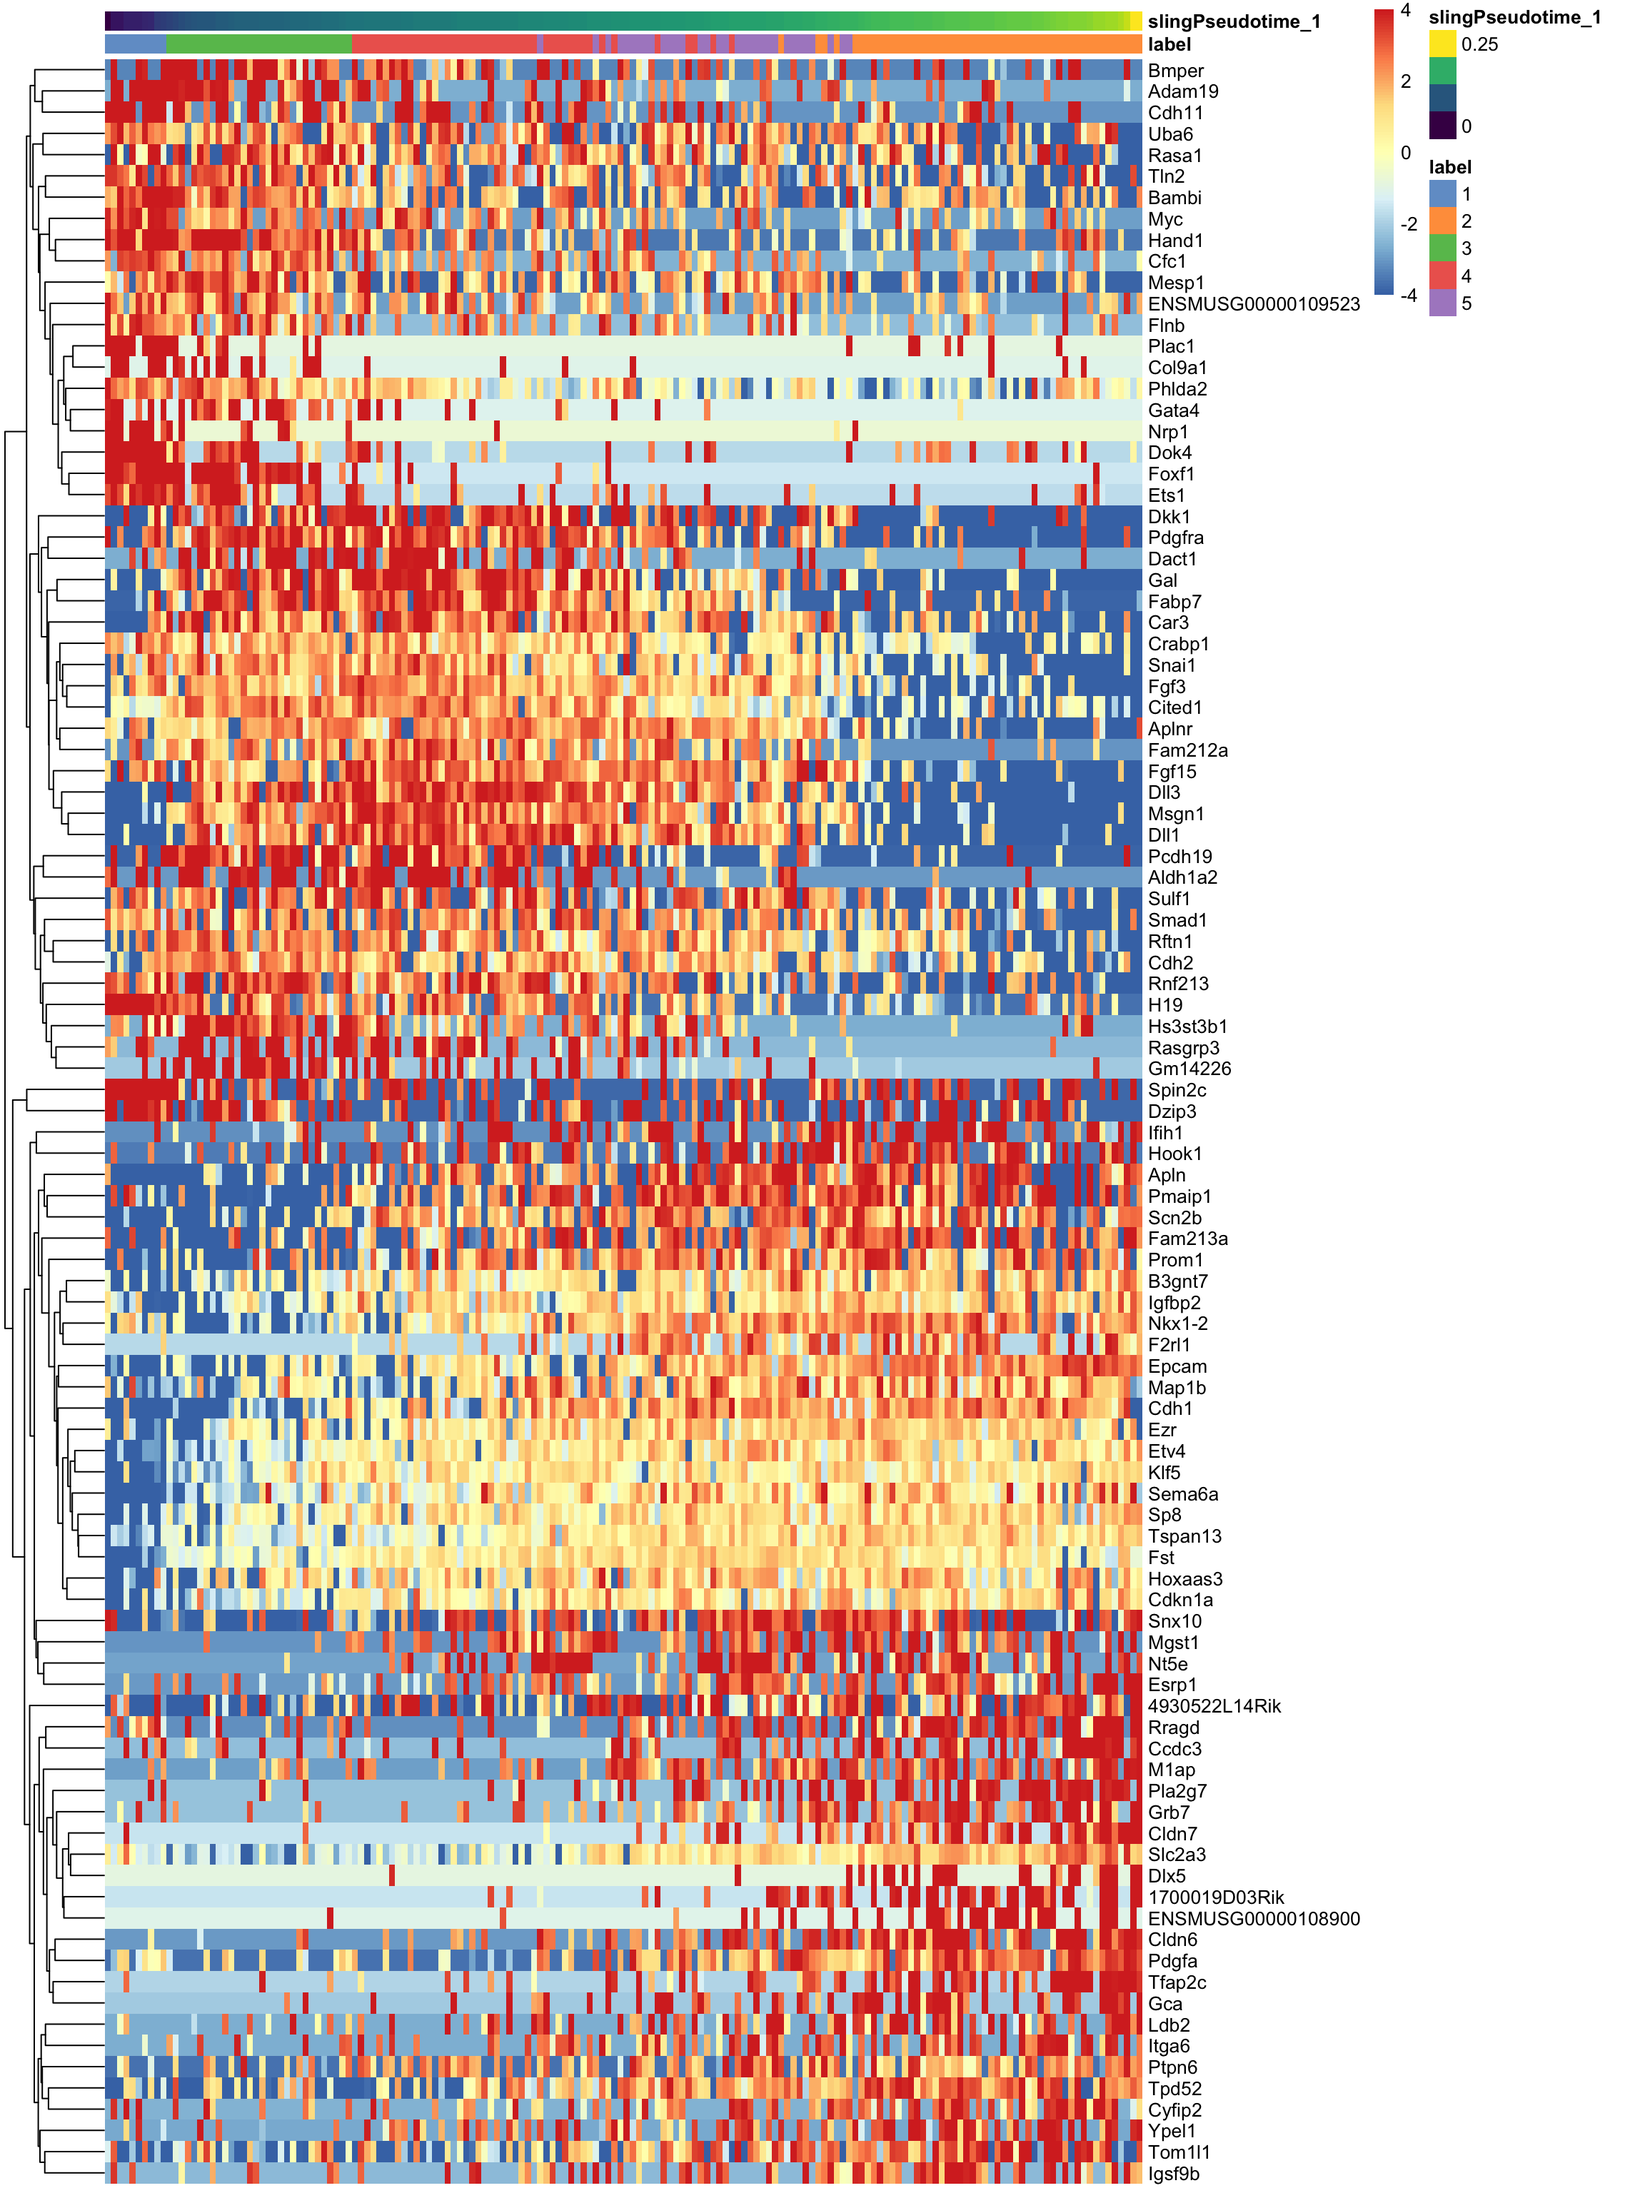
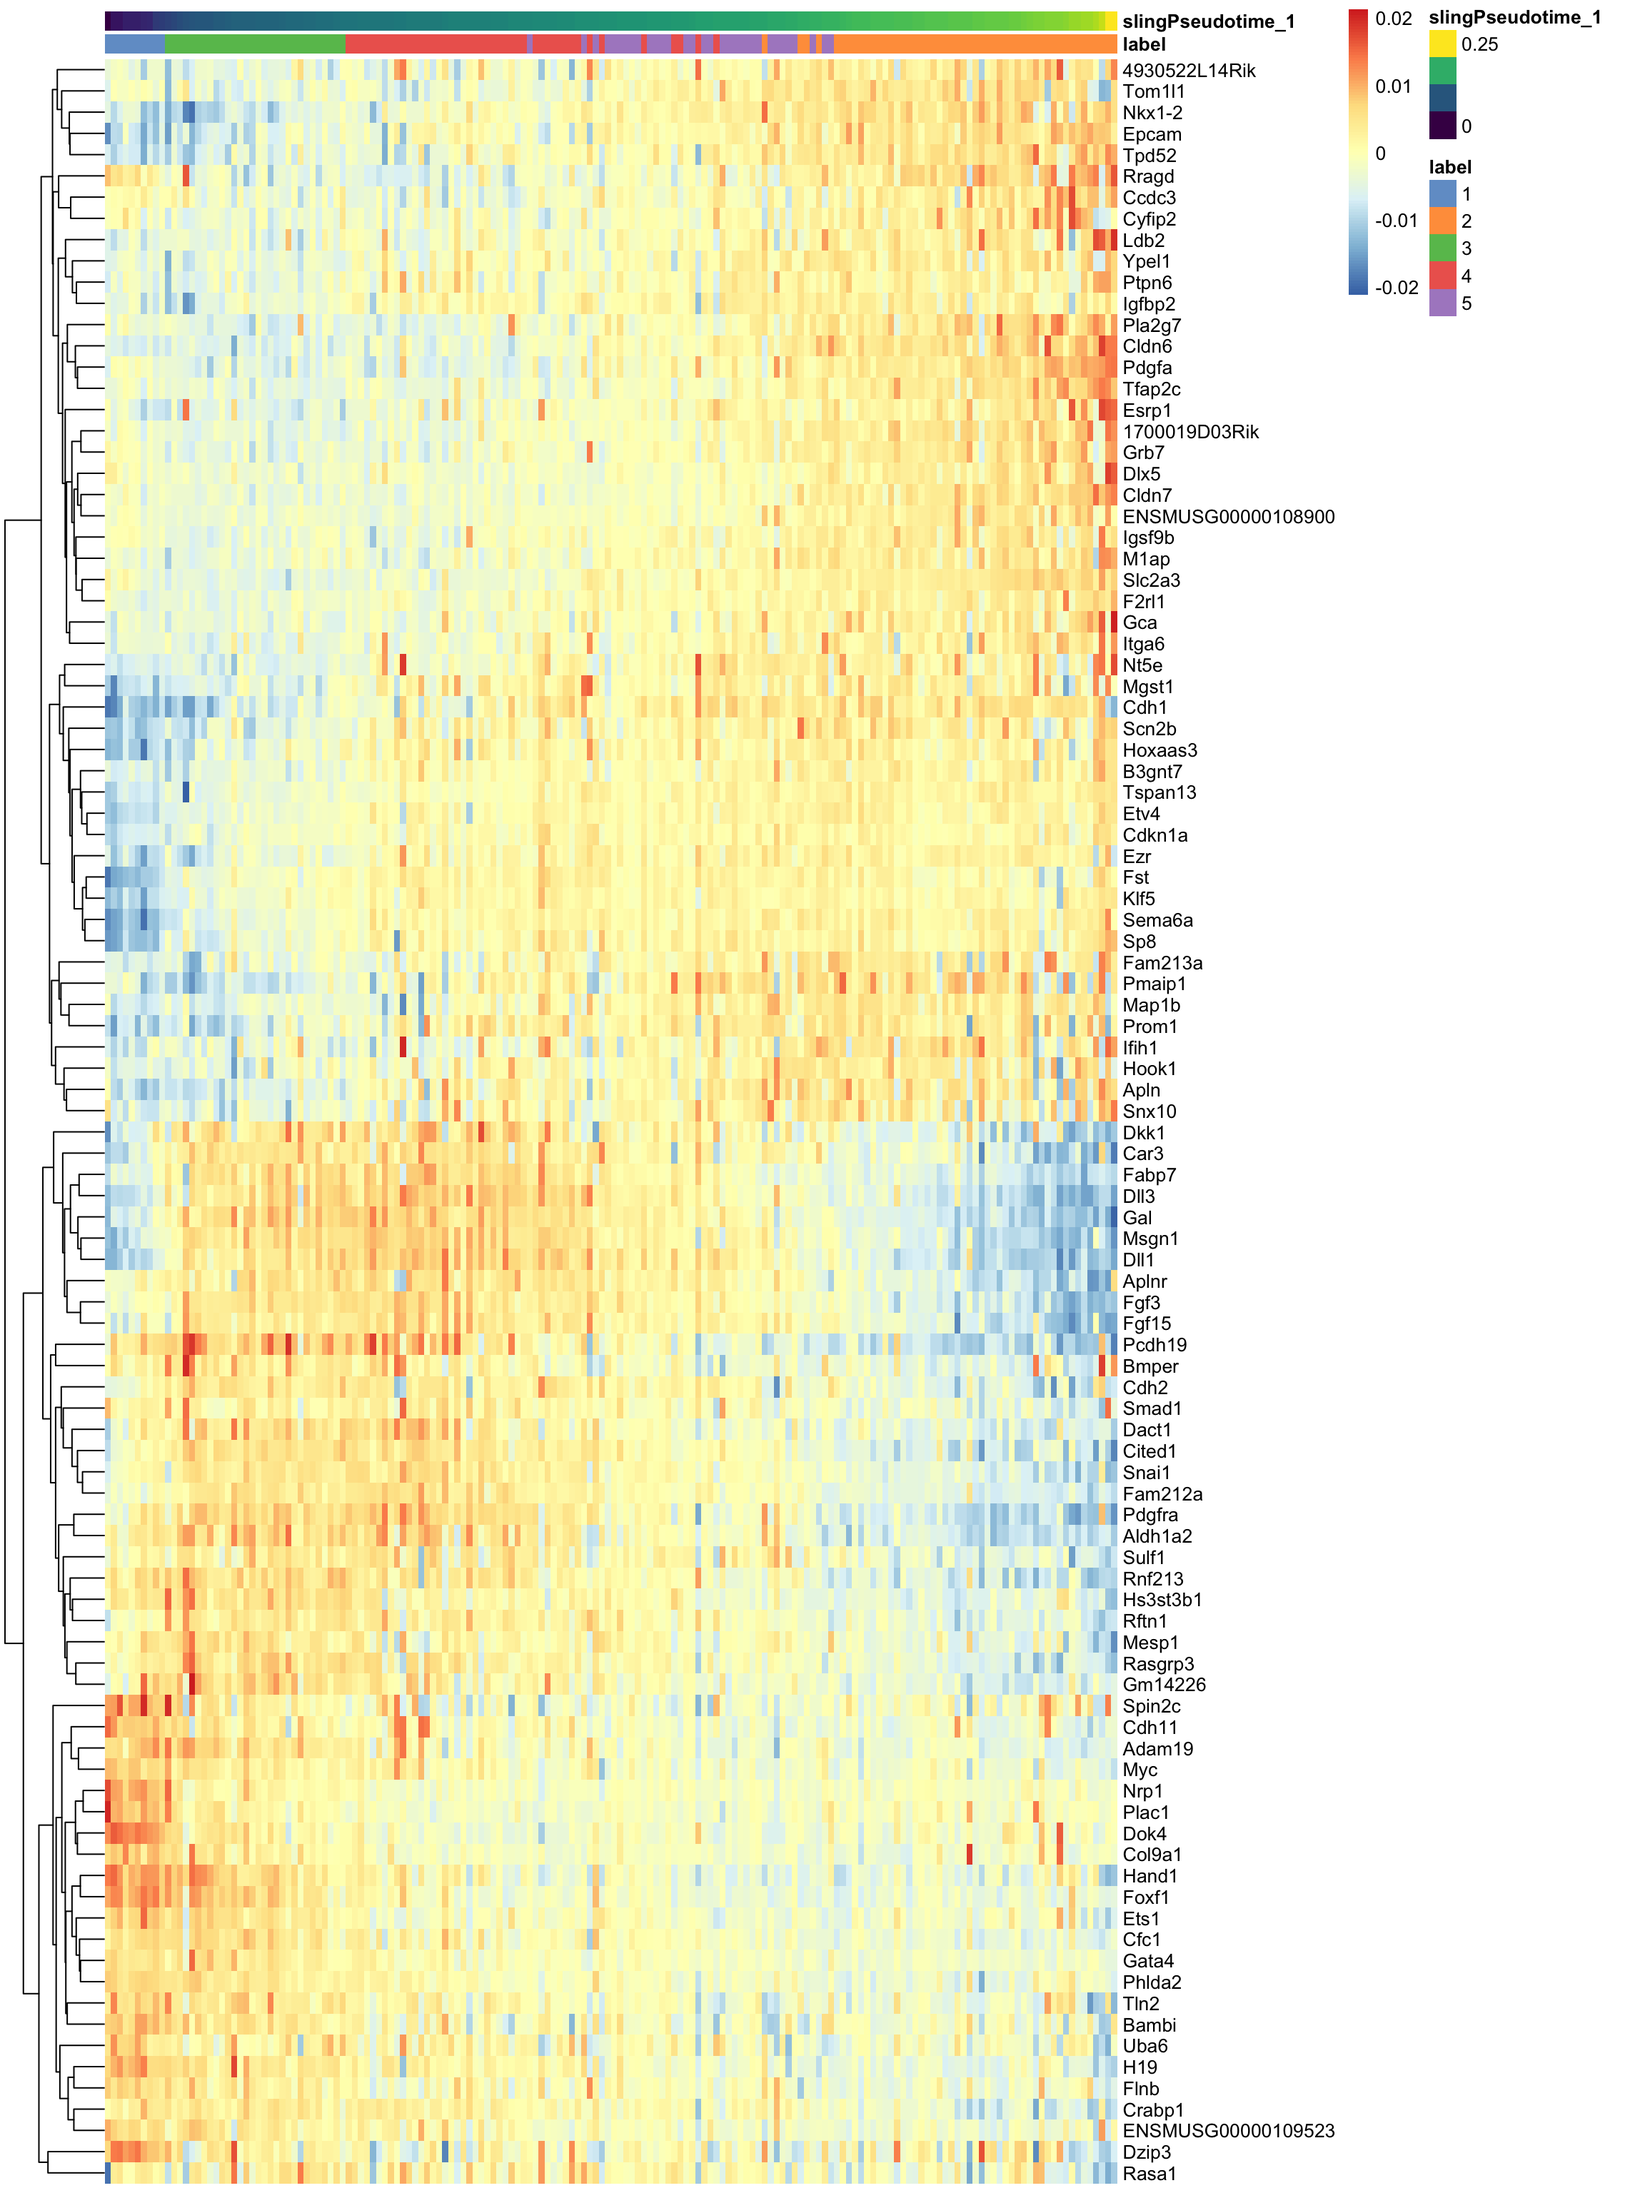
Build

diff --git a/docs/secondary-analysis.html b/docs/secondary-analysis.html
@@ -565,16 +565,16 @@ This reproducible <a href="http://rmarkdown.rstudio.com">R Markdown</a> analysis
 <div class="panel panel-default">
 <div class="panel-heading">
 <p class="panel-title">
-<a data-toggle="collapse" data-parent="#workflowr-checks" href="#strongRepositoryversionstrongahrefhttpsgithubcomjma1991LPMPtree929687f18661f34d89df8a66c787c60856451db8targetblank929687fa"> <span class="glyphicon glyphicon-ok text-success" aria-hidden="true"></span> <strong>Repository version:</strong> <a href="https://github.com/jma1991/LPMP/tree/929687f18661f34d89df8a66c787c60856451db8" target="_blank">929687f</a> </a>
+<a data-toggle="collapse" data-parent="#workflowr-checks" href="#strongRepositoryversionstrongahrefhttpsgithubcomjma1991LPMPtree129278adb8d81c2115524365246506c79b244a67targetblank129278aa"> <span class="glyphicon glyphicon-ok text-success" aria-hidden="true"></span> <strong>Repository version:</strong> <a href="https://github.com/jma1991/LPMP/tree/129278adb8d81c2115524365246506c79b244a67" target="_blank">129278a</a> </a>
 </p>
 </div>
[2 lines of base64/hex data omitted]
 <div class="panel-body">
 <p>
 Great! You are using Git for version control. Tracking code development and connecting the code version to the results is critical for reproducibility.
 </p>
 <p>
-The results in this page were generated with repository version <a href="https://github.com/jma1991/LPMP/tree/929687f18661f34d89df8a66c787c60856451db8" target="_blank">929687f</a>. See the <em>Past versions</em> tab to see a history of the changes made to the R Markdown and HTML files.
+The results in this page were generated with repository version <a href="https://github.com/jma1991/LPMP/tree/129278adb8d81c2115524365246506c79b244a67" target="_blank">129278a</a>. See the <em>Past versions</em> tab to see a history of the changes made to the R Markdown and HTML files.
 </p>
 <p>
 Note that you need to be careful to ensure that all relevant files for the analysis have been committed to Git prior to generating the results (you can use <code>wflow_publish</code> or <code>wflow_git_commit</code>). workflowr only checks the R Markdown file, but you know if there are other scripts or data files that it depends on. Below is the status of the Git repository when the results were generated:
@@ -639,6 +639,40 @@ Message
 </tr>
 </thead>
 <tbody>
+<tr>
+<td>
+Rmd
+</td>
+<td>
+<a href="https://github.com/jma1991/LPMP/blob/129278adb8d81c2115524365246506c79b244a67/analysis/secondary-analysis.Rmd" target="_blank">129278a</a>
+</td>
+<td>
+James Ashmore
+</td>
+<td>
+2021-07-30
+</td>
+<td>
+Build
+</td>
+</tr>
+<tr>
+<td>
+html
+</td>
+<td>
+<a href="https://rawcdn.githack.com/jma1991/LPMP/5da4fbcff95a0f9cde3ed1fbcd742991579920f4/docs/secondary-analysis.html" target="_blank">5da4fbc</a>
+</td>
+<td>
+James Ashmore
+</td>
+<td>
+2021-07-30
+</td>
+<td>
+Build
+</td>
+</tr>
 <tr>
 <td>
 Rmd
@@ -1100,14 +1134,49 @@ res &lt;- TSCAN::testPseudotime(sce, pseudotime = sce$slingPseudotime_1)</code><
 <pre class="r"><code>plotHeatmap(
   object = sce[, !is.na(sce$slingPseudotime_1)],
   features = rownames(sig)[ind],
-  exprs_values = &quot;logcounts&quot;,
+  exprs_values = &quot;reconstructed&quot;,
   center = TRUE,
-  zlim = c(-4, +4),
-  symmetric = TRUE,
   colour_columns_by = &quot;label&quot;,
   order_columns_by = &quot;slingPseudotime_1&quot;,
 )</code></pre>
 <p><img src="figure/secondary-analysis.Rmd/unnamed-chunk-53-1.png" width="1152" style="display: block; margin: auto;" /></p>
+<p>
+<button type="button" class="btn btn-default btn-xs btn-workflowr btn-workflowr-fig" data-toggle="collapse" data-target="#fig-unnamed-chunk-53-1">
+Past versions of unnamed-chunk-53-1.png
+</button>
+</p>
+<div id="fig-unnamed-chunk-53-1" class="collapse">
+<div class="table-responsive">
+<table class="table table-condensed table-hover">
+<thead>
+<tr>
+<th>
+Version
+</th>
+<th>
+Author
+</th>
+<th>
+Date
+</th>
+</tr>
+</thead>
+<tbody>
+<tr>
+<td>
+<a href="https://github.com/jma1991/LPMP/blob/5da4fbcff95a0f9cde3ed1fbcd742991579920f4/docs/figure/secondary-analysis.Rmd/unnamed-chunk-53-1.png" target="_blank">5da4fbc</a>
+</td>
+<td>
+James Ashmore
+</td>
+<td>
+2021-07-30
+</td>
+</tr>
+</tbody>
+</table>
+</div>
+</div>
 </div>
 </div>
 </div>
